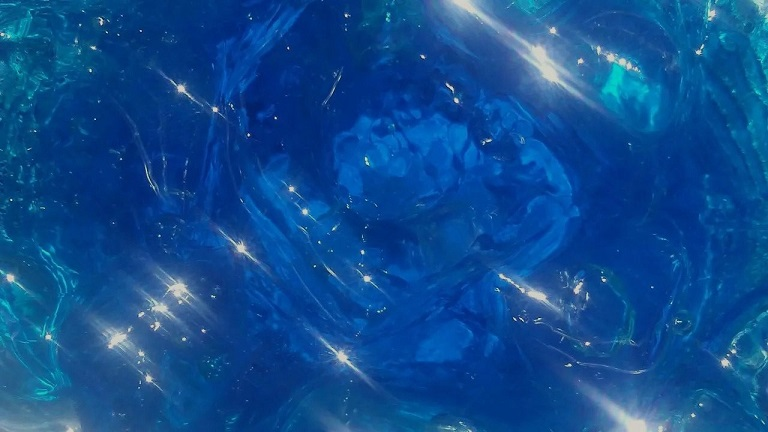
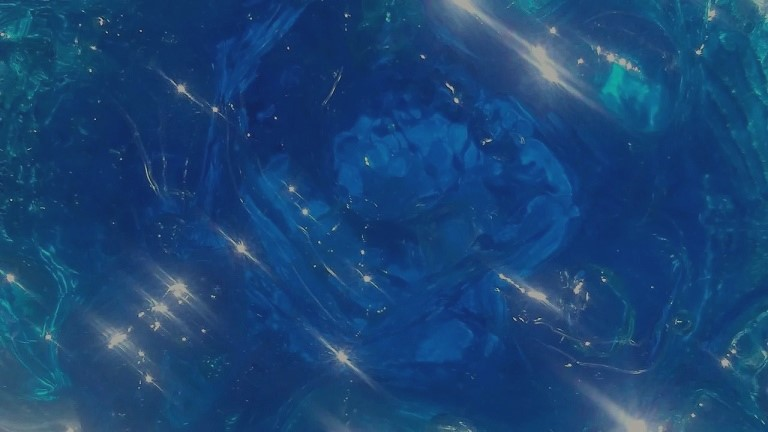
15.09 update

diff --git a/src/App.css b/src/App.css
@@ -11,7 +11,7 @@
 
 .resume {
   width: 100%;
-  max-width: 900px;
+  max-width: 1000px;
   background: white;
   display: flex;
   flex-direction: column;
@@ -24,7 +24,7 @@
 .content-wrapper {
   width: 100%;
   box-sizing: border-box;
-  padding: 0 60px;
+  padding: 0 80px;
 }
 
 .resume-header {
@@ -36,8 +36,7 @@
   background-size: cover;
 }
 
-.name,
-.framework {
+.name {
   color: rgba(255, 255, 255, 0.85);
   text-shadow: 0 0 2px rgba(255, 255, 255, 0.8),
                0 0 10px rgba(255, 255, 255, 0.3),
@@ -46,19 +45,31 @@
   -webkit-background-clip: text;
   background-clip: text;
   -webkit-text-fill-color: transparent;
-  filter: drop-shadow(0 0 1px rgba(255, 255, 255, 0.5));
+  filter: drop-shadow(0 0 1px rgba(255, 255, 255, 0.1));
+}
+
+.framework {
+  color: rgba(255, 255, 255, 0.35);
+  text-shadow: 0 0 2px rgba(255, 255, 255, 0.3),
+               0 0 10px rgba(255, 255, 255, 0.3),
+               0 6px 6px rgba(0, 0, 0, 0.25);
+  background: linear-gradient(to bottom, #fff 0%, #fff 45%, #d1d1d1 50%, #fff 55%, #fff 100%);
+  -webkit-background-clip: text;
+  background-clip: text;
+  -webkit-text-fill-color: transparent;
+  filter: drop-shadow(0 0 1px rgba(255, 255, 255, 0.1));
 }
 
 .name {
-  font-size: 42px;
-  font-weight: 800;
+  font-size: 48px;
+  font-weight: 700;
   line-height: 1.1;
-  margin: 0 0 16px 0;
+  margin: 0 0 36px 0;
   letter-spacing: -1px;
 }
 
 .competence {
-  font-size: 40px;
+  font-size: 44px;
   font-weight: 500;
   margin: 0 0 6px 0;
   letter-spacing: 2px;
@@ -66,8 +77,8 @@
 }
 
 .framework {
-  font-size: 44px;
-  font-weight: 900;
+  font-size: 24px;
+  font-weight: 400;
   line-height: 1;
 }
 
@@ -79,15 +90,36 @@
 }
 
 .section-title {
+  position: relative;
+  padding-left: 0px;
   font-size: 38px;
   font-weight: 800;
   margin-bottom: 16px;
   letter-spacing: -1px;
-  background: linear-gradient(to bottom, #111 0%, #222 46%, #444 50%, #111 54%, #000 100%);
+  background: linear-gradient(
+    to bottom,
+    #111 0%,
+    #222 46%,
+    #444 50%,
+    #111 54%,
+    #000 100%
+  );
   -webkit-background-clip: text;
   background-clip: text;
   -webkit-text-fill-color: transparent;
   filter: drop-shadow(0px 1px 1px rgba(0, 0, 0, 0.05));
+}
+
+.section-title::before {
+  content: '';
+  position: absolute;
+  left: -29px;
+  top: 50%;
+  transform: translateY(-50%);
+  width: 5px;
+  height: 36px;
+  background: #225791;
+  border-radius: 1px;
 }
 
 .info-section:first-of-type {
@@ -111,11 +143,17 @@
 }
 
 .item-sub {
-  font-size: 15px;
+  font-size: 16px;
   color: #666;
   margin: 4px 0;
   display: block;
   padding-bottom: 20px;
+}
+
+.item-list {
+  margin: 6px 0;
+  font-size: 16px;
+  color: #666;
 }
 
 .info-list {
@@ -134,6 +172,10 @@
   font-size: 16px;
   font-weight: 400;
   color: #444;
+}
+
+.highlight {
+  font-weight: 600; 
 }
 
 @media (max-width: 767px) {

diff --git a/src/App.tsx b/src/App.tsx
@@ -12,7 +12,7 @@ const App = () => {
           <div className="content-wrapper">
             <h1 className="name">Мартемьянов Иван Алексеевич</h1>
             <p className="competence">Фронтенд-разработка</p>
-            <p className="framework">React, TS, Next.js, Node.js</p>
+            <p className="framework">React • TS • Next.js • Node.js</p>
           </div>
         </header>
 
@@ -25,8 +25,17 @@ const App = () => {
                 <p className="item-sub">Разработка информационных систем, Программная инженерия, 4 курс</p>
                 <p className="item-main">Курсы</p>
                 <p className="item-sub">Интенсив по фронтенду, React, Тинькофф банк</p>
-                <p className="item-main">Опыт работы</p>
-                <p className="item-sub">Проходил практику и работал как фуллстек-разработчик (React, Next.js, Node.js) в ООО "ПроБои"</p>
+                <p className="section-title">Опыт работы</p>
+                <p className="item-list">
+                  Проходил практику и работал как{' '}
+                  <span className="highlight">
+                    фуллстек-разработчик (React, Next.js, Node.js) в ООО "ПроБои"
+                  </span>
+                </p>
+                <p className="item-list">— разрабатывал и верстал UI компоненты в FSD проекте на Next.js</p>
+                <p className="item-list">— реализовывал логику и API-запросы на Node.js</p>
+                <p className="item-list">— настраивал базовое SEO</p>
+                <p className="item-list">— работал в команде по Git-flow</p>
               </div>
             </section>
 
